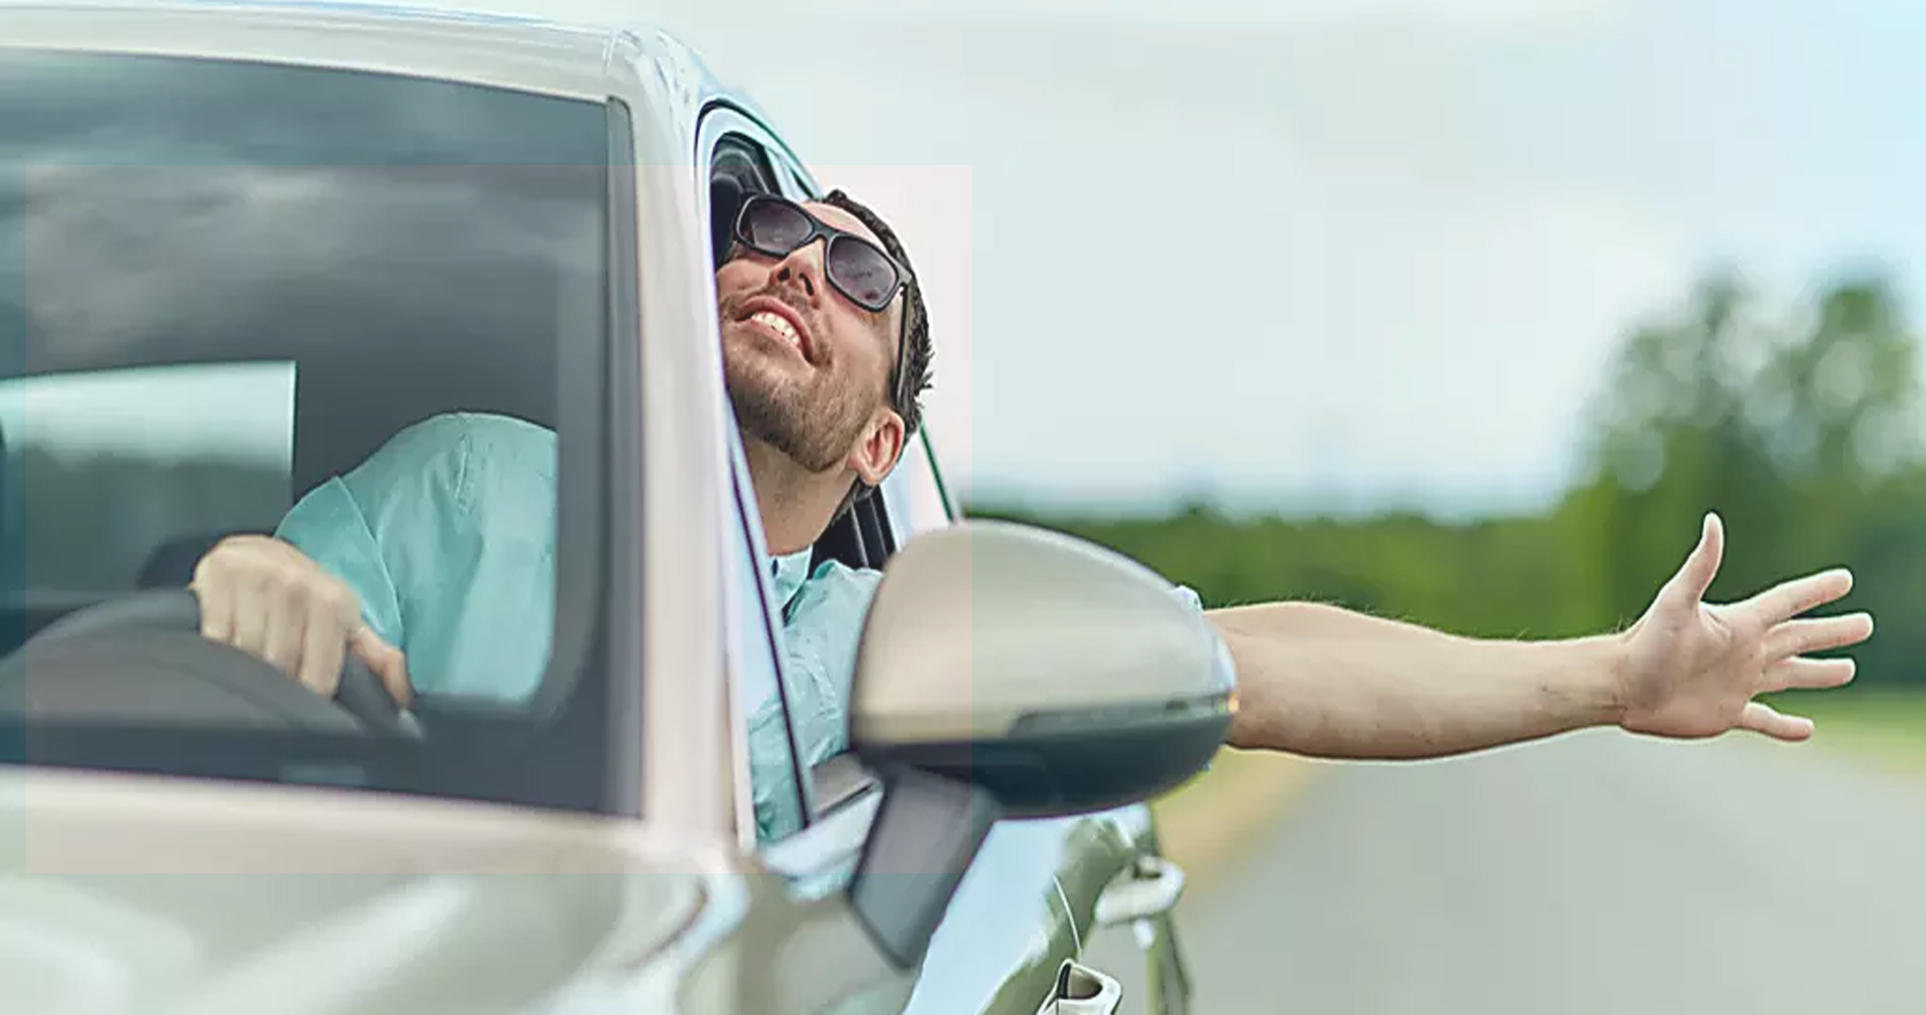
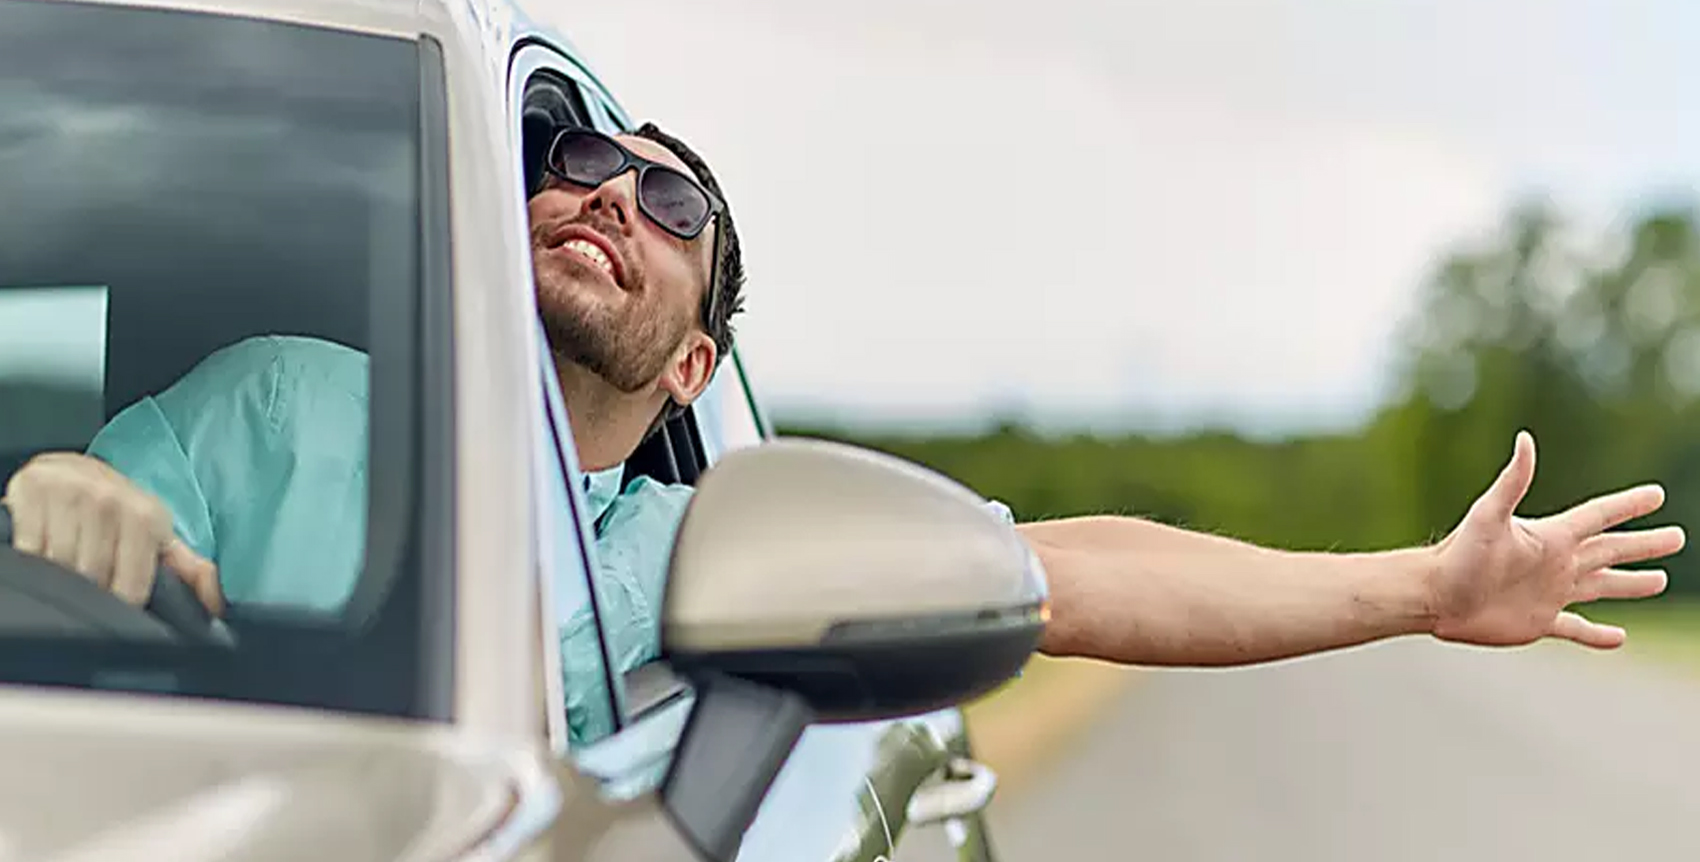
arregle tamaño de imagen del main

diff --git a/css/style.css b/css/style.css
@@ -95,7 +95,7 @@ div.contenido::after{
   background-repeat: no-repeat;
   background-size: cover;
   background-position: bottom center;
-  height: 130vh;
+  height: 95vh;
   margin: 0 0 0 0;
   padding: 0 0 0 0;
   position: relative;
